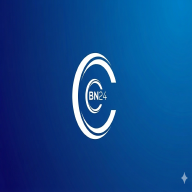
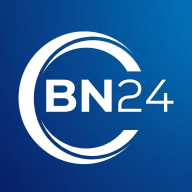
deploy: 7f9a0bd10db60627e3ea9cadb2e60aea91ba885c

Changed region(s): [[0.0, 0.0, 0.75, 0.9062], [0.75, 0.4062, 0.9062, 0.5938], [0.9375, 0.9062, 1.0, 0.9688]]

diff --git a/flutter_service_worker.js b/flutter_service_worker.js
@@ -3,7 +3,7 @@ const MANIFEST = 'flutter-app-manifest';
 const TEMP = 'flutter-temp-cache';
 const CACHE_NAME = 'flutter-app-cache';
 
-const RESOURCES = {"favicon.png": "f28c7c1dd20e2d786b7772b3b8cedf11",
+const RESOURCES = {"favicon.png": "b92661af083b13bcc93e16dddcd2f024",
 "assets/assets/IMG-20260228-WA0018.jpg": "df1b578c67ba0b9a4e8aea9b96d5c848",
 "assets/NOTICES": "26984a12034684ad7e92613fedd31e37",
 "assets/AssetManifest.bin.json": "a85e2299c10ee1d13c89639cec5f1abf",
@@ -15,7 +15,7 @@ const RESOURCES = {"favicon.png": "f28c7c1dd20e2d786b7772b3b8cedf11",
 "index.html": "86e05423539886b47cf10da5589d0ab1",
 "/": "86e05423539886b47cf10da5589d0ab1",
 "manifest.json": "be93a4511ea85716ca5b24f1d29641f6",
-"flutter_bootstrap.js": "d42393eb82dc565b5873814c4c3601f6",
+"flutter_bootstrap.js": "1bee42a5190eb86031ec054219614837",
 "main.dart.js": "6d983f9bdda82e0684ff9638611449da",
 "flutter.js": "24bc71911b75b5f8135c949e27a2984e",
 "canvaskit/skwasm.js.symbols": "3a4aadf4e8141f284bd524976b1d6bdc",
@@ -31,10 +31,10 @@ const RESOURCES = {"favicon.png": "f28c7c1dd20e2d786b7772b3b8cedf11",
 "canvaskit/chromium/canvaskit.js": "a80c765aaa8af8645c9fb1aae53f9abf",
 "canvaskit/chromium/canvaskit.js.symbols": "e2d09f0e434bc118bf67dae526737d07",
 "version.json": "9a054387fef66882b178630fc5847716",
-"icons/Icon-maskable-512.png": "c37d3bbc453d7b4085203f8d53b1fe0c",
-"icons/Icon-maskable-192.png": "cb3c91ac33001a1225122f0a092081d8",
-"icons/Icon-192.png": "cb3c91ac33001a1225122f0a092081d8",
-"icons/Icon-512.png": "c37d3bbc453d7b4085203f8d53b1fe0c"};
+"icons/Icon-maskable-512.png": "f2523938293dd9318dec0305a0695498",
+"icons/Icon-maskable-192.png": "4ebfc1c4cc14d238bd0207f4a44a8688",
+"icons/Icon-192.png": "4ebfc1c4cc14d238bd0207f4a44a8688",
+"icons/Icon-512.png": "f2523938293dd9318dec0305a0695498"};
 // The application shell files that are downloaded before a service worker can
 // start.
 const CORE = ["main.dart.js",

diff --git a/flutter_bootstrap.js b/flutter_bootstrap.js
@@ -38,6 +38,6 @@ _flutter.buildConfig = {"engineRevision":"1527ae0ec577a4ef50e65f6fefcfc1326707d9
 
 _flutter.loader.load({
   serviceWorkerSettings: {
-    serviceWorkerVersion: "1344247484"
+    serviceWorkerVersion: "4214561520"
   }
 });
